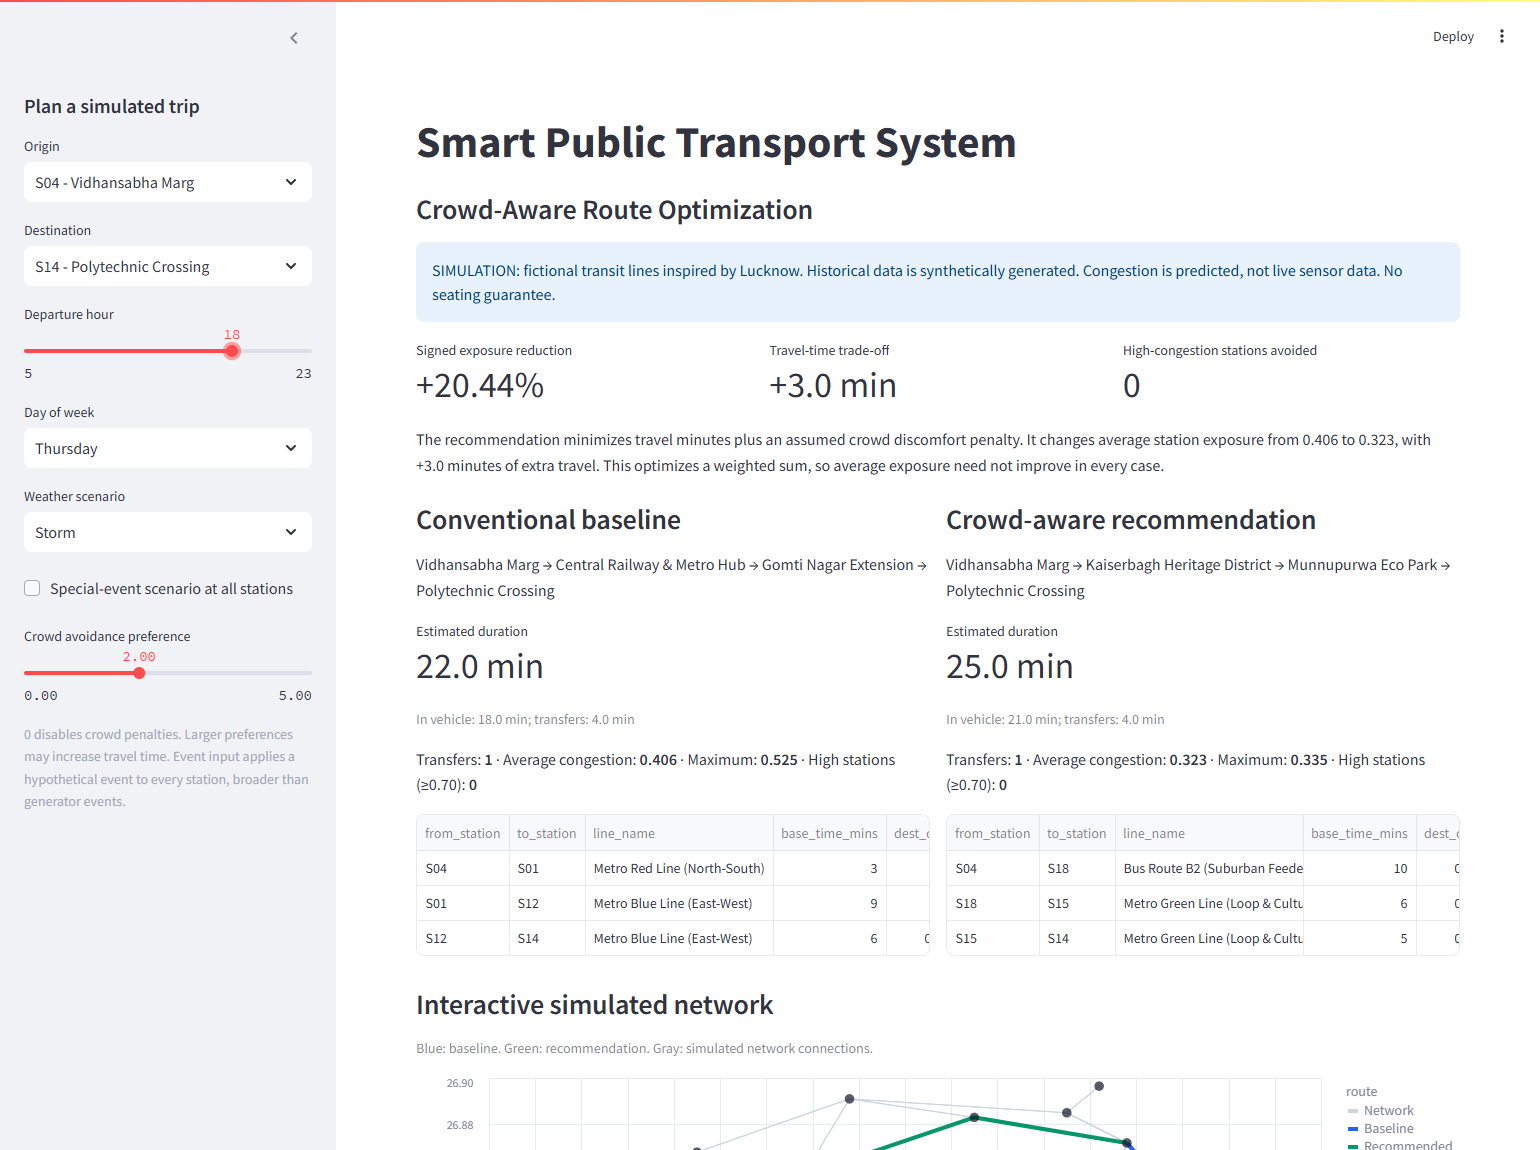
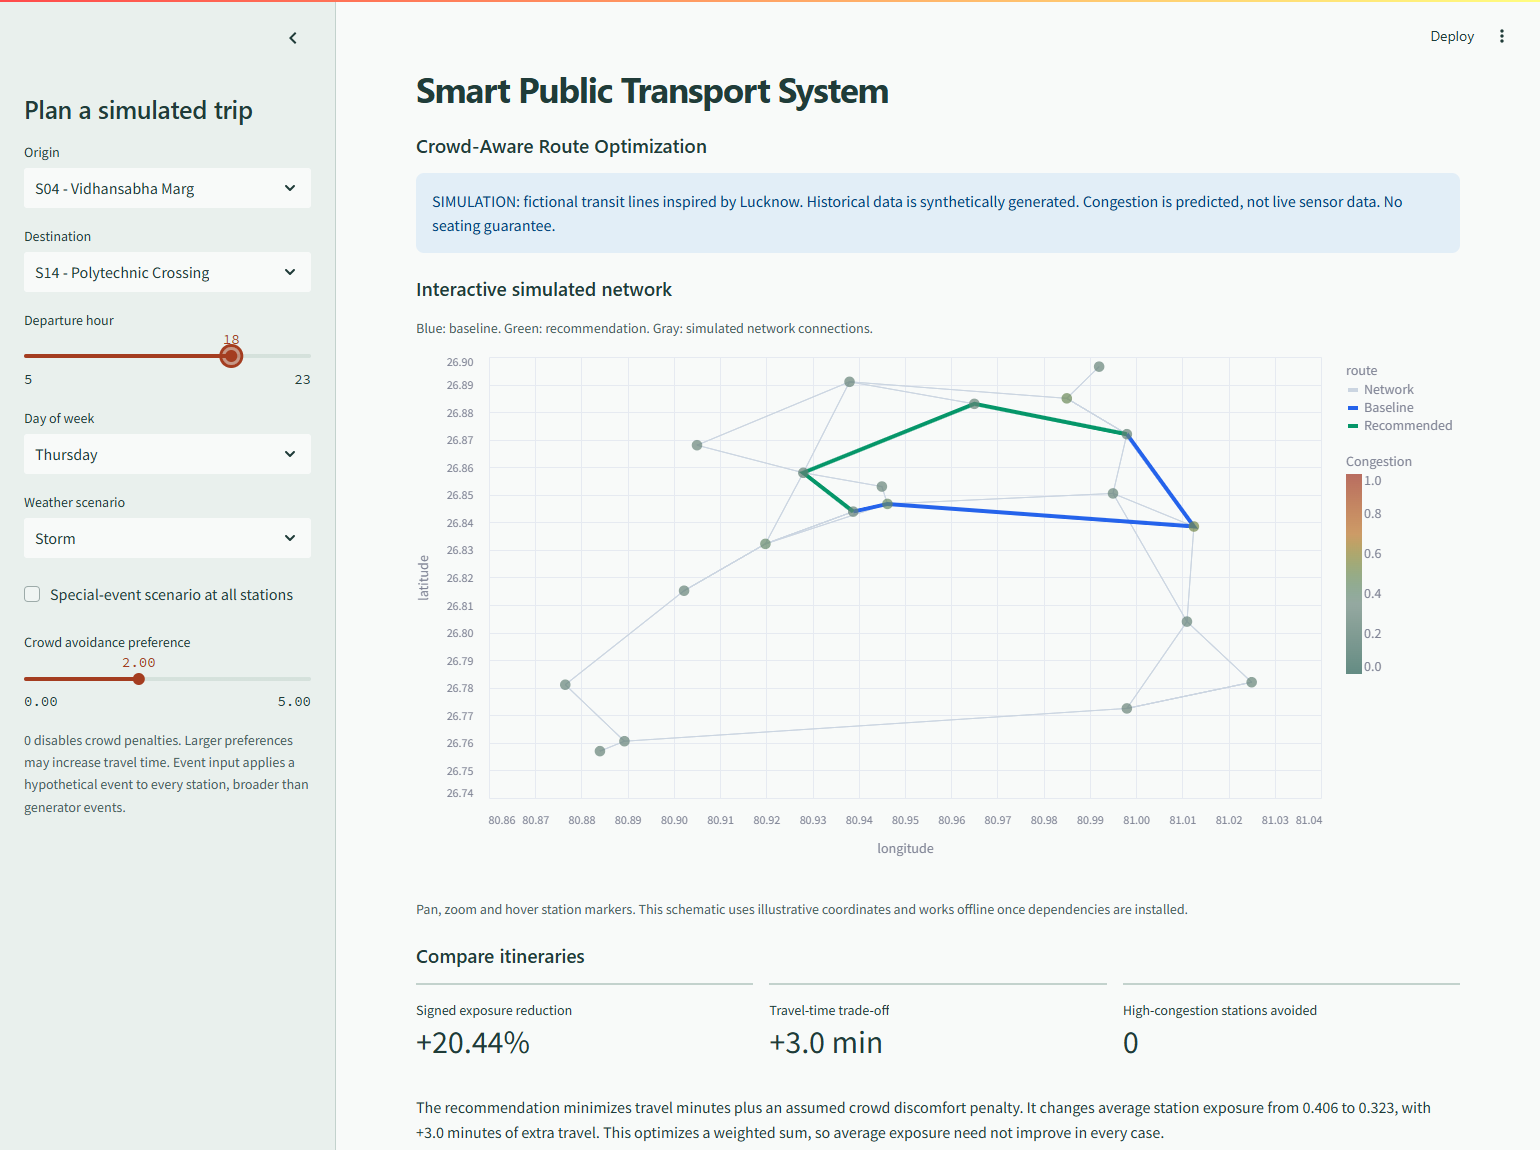
test: record final responsive browser checks and submission gates

diff --git a/src/ui/app.py b/src/ui/app.py
@@ -66,12 +66,12 @@ network=alt.Chart(pd.DataFrame(rows)).mark_line().encode(
     x=alt.X('longitude:Q',scale=alt.Scale(zero=False)),
     y=alt.Y('latitude:Q',scale=alt.Scale(zero=False)),
     detail='segment:N',order='order:Q',
-    color=alt.Color('route:N',scale=alt.Scale(domain=['Network','Baseline','Recommended'],range=['#cbd5e1','#2563eb','#059669'])),
+    color=alt.Color('route:N',legend=alt.Legend(orient='bottom'),scale=alt.Scale(domain=['Network','Baseline','Recommended'],range=['#cbd5e1','#2563eb','#059669'])),
     size=alt.condition(alt.datum.route=='Network',alt.value(1),alt.value(4)))
 points=stations.copy()
 points['Predicted congestion']=points.station_id.map(crowd)
 markers=alt.Chart(points).mark_circle(size=110).encode(
-    x='longitude:Q',y='latitude:Q',color=alt.Color('Predicted congestion:Q',scale=alt.Scale(domain=[0,.35,.7,1],range=['#245c52','#6a857b','#ba7229','#9d3020']),legend=alt.Legend(title='Congestion')),tooltip=['station_id','name',alt.Tooltip('Predicted congestion:Q',format='.3f')])
+    x='longitude:Q',y='latitude:Q',color=alt.Color('Predicted congestion:Q',scale=alt.Scale(domain=[0,.35,.7,1],range=['#245c52','#6a857b','#ba7229','#9d3020']),legend=alt.Legend(title='Congestion',orient='bottom')),tooltip=['station_id','name',alt.Tooltip('Predicted congestion:Q',format='.3f')])
 st.altair_chart((network+markers).resolve_scale(color='independent').properties(height=520).interactive(),use_container_width=True)
 st.caption('Pan, zoom and hover station markers. This schematic uses illustrative coordinates and works offline once dependencies are installed.')
 

diff --git a/docs/FINAL_VERIFICATION.md b/docs/FINAL_VERIFICATION.md
@@ -1,0 +1,15 @@
+# Final submission verification
+
+Verified on 24 November 2026. The existing repository and all uncommitted work were preserved before frontend work. Main contributor commit 159ac4d is incorporated through merge commit 24265bc; original contributor source remains archived.
+
+- Mandatory source, README, 15-page SRS PDF and editable DOCX, five-slide PPTX and five-page presentation PDF are present and structurally readable.
+- Viva preparation and the timed demo script are present. Model and benchmark evidence remain unchanged; no expensive experiment was repeated during frontend work.
+- Fresh-environment automated suite: 74 passing tests. Statement coverage 93.62%, branch coverage 95.00%, combined coverage 94.02%. Routing and cost functions: 100% statement and branch coverage.
+- PyArrow 23.0.1 / NumPy 1.26.4 compatibility pins retained.
+- Hallmark custom Streamlit redesign is a separate commit from the preserved academic candidate. Static CSS lint: zero failures, reflex findings or warnings. Hallmark browser tier unavailable because puppeteer-core is absent; Playwright supplied genuine desktop/phone captures and actual scenario validation instead. No full Hallmark render pass is claimed.
+- Desktop 1540px and phone 390px reviewed. Native sidebar remains collapsible, columns wrap, map legends are below the plot. Every scenario control remains present; backend/display consistency is tested.
+- Browser scenario: S04 to S14, Thursday 18:00, Storm, event off, preference 2. Baseline 22 minutes; recommendation 25 minutes; +20.44% signed exposure reduction. No browser JavaScript errors; no external requests required. See browser_smoke.json and mobile_smoke.json.
+- Git diff whitespace check passes. Required-file hashes and credential-pattern scan are recorded in results/deliverable_verification.json. No credential patterns found.
+- Synthetic data, illustrative lines, fixed transfer assumptions and departure-time snapshots remain clearly disclosed. No real-world congestion benefit is claimed.
+
+Publication: verified branch push and latest remote CI/main integration are checked after this document's commit; the final response reports those observed outcomes without a self-referential commit hash in this document.
